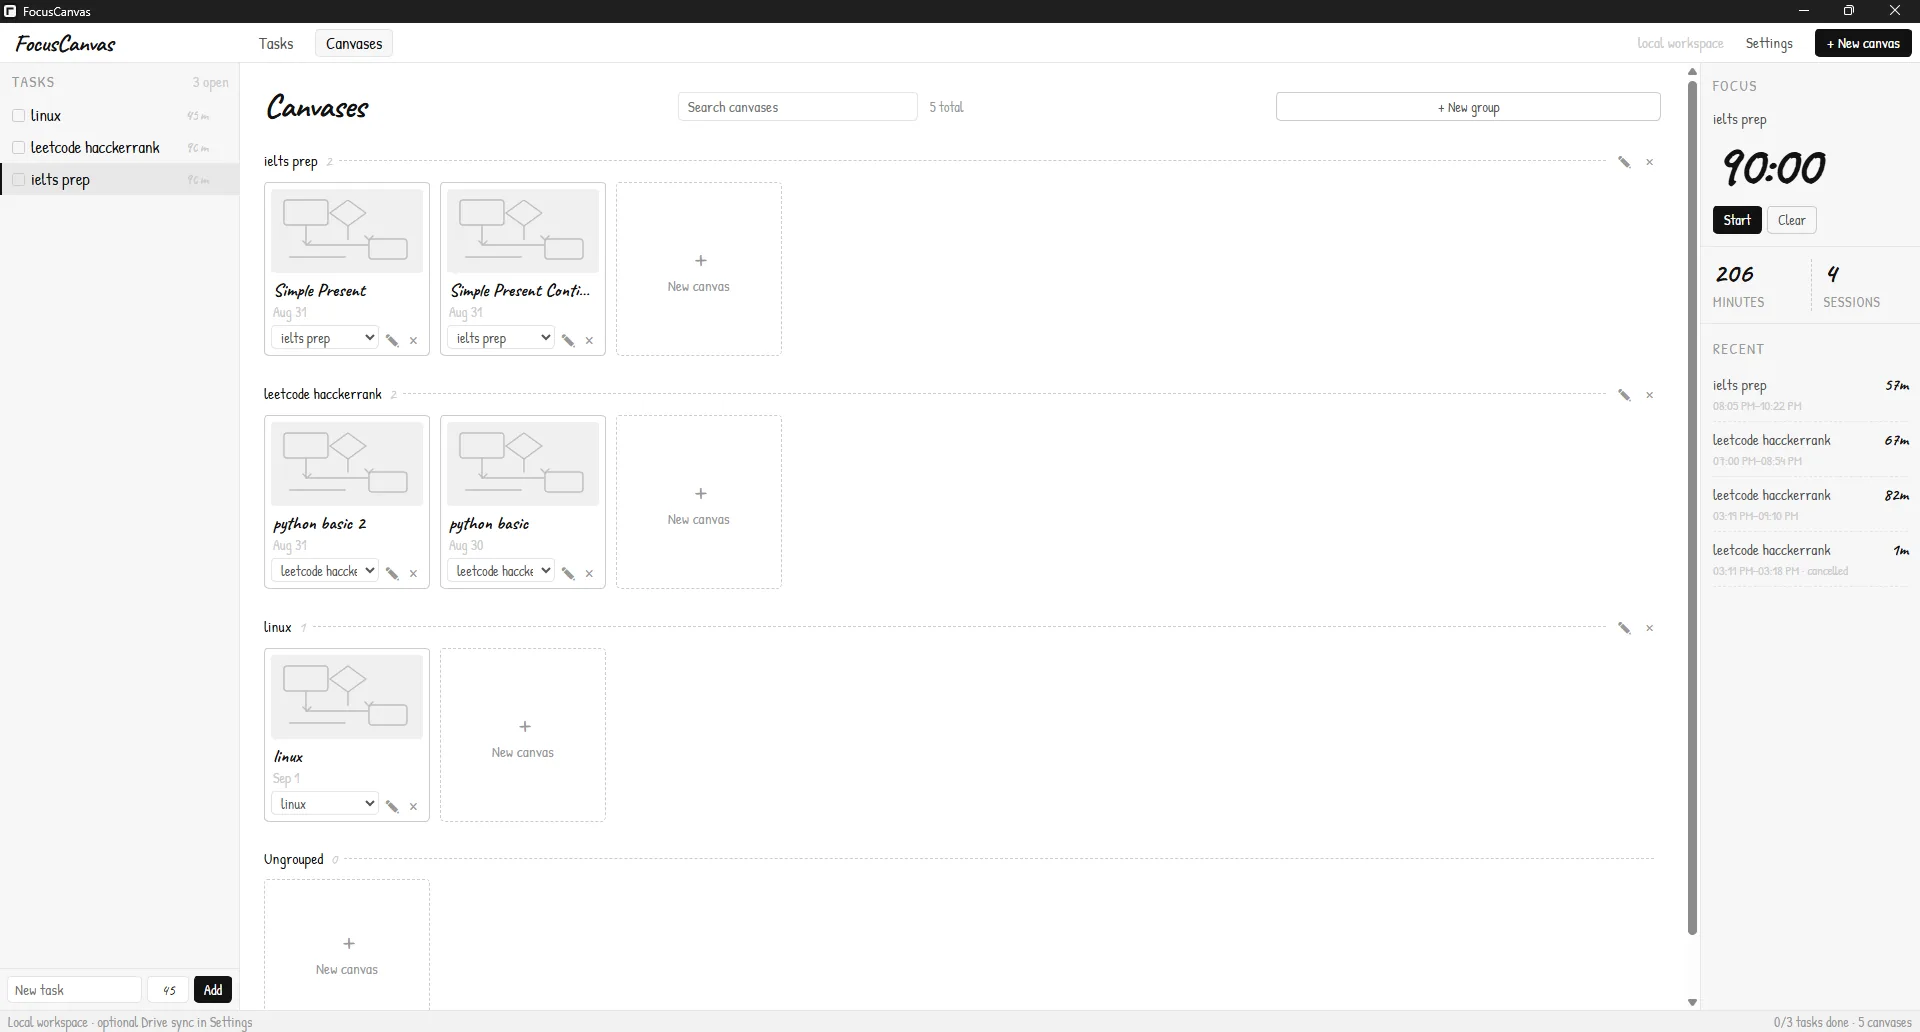
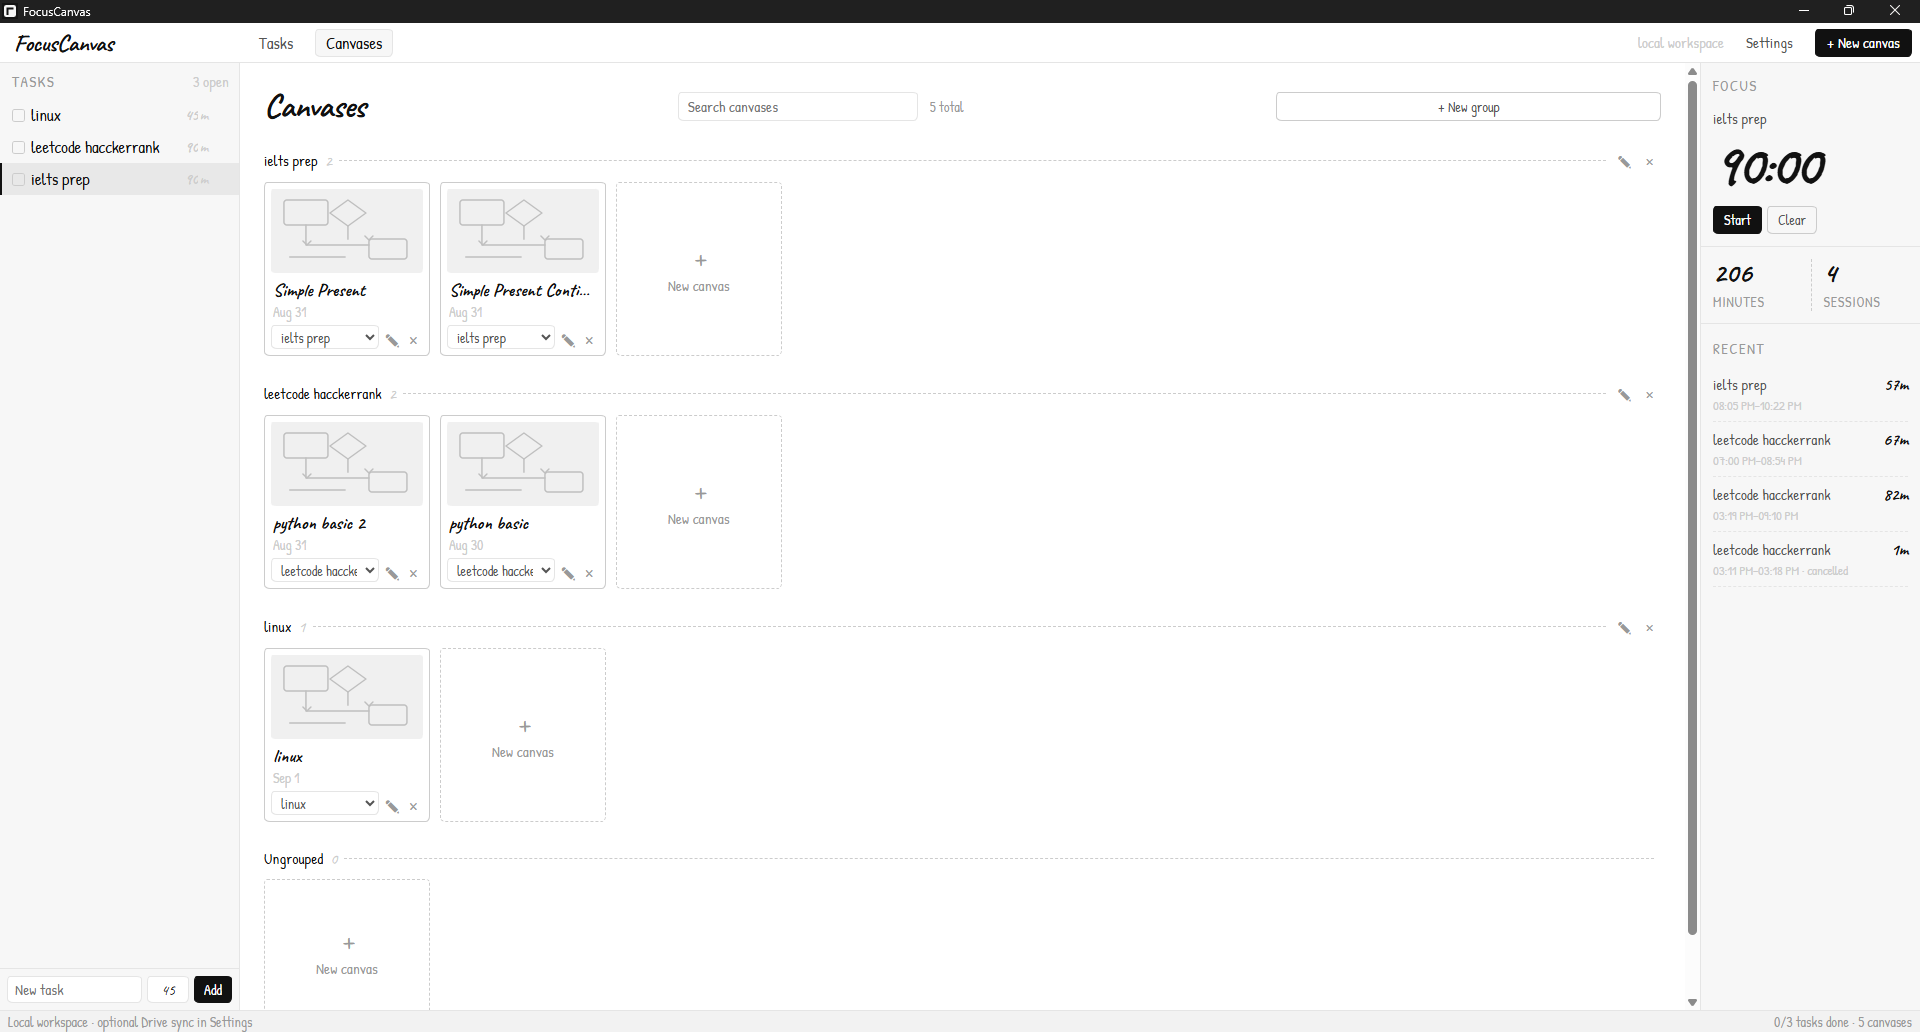
fix: sharpen public showcase images and header type
Improve header readability and preserve sharpness in public showcase screenshots.

diff --git a/site/styles.css b/site/styles.css
@@ -32,7 +32,7 @@ img { display: block; max-width: 100%; }
   z-index: 50;
   top: 0;
   display: grid;
-  min-height: 44px;
+  min-height: 50px;
   grid-template-columns: 1fr auto 1fr;
   align-items: center;
   padding: 0 14px;
@@ -40,6 +40,7 @@ img { display: block; max-width: 100%; }
   background: rgb(255 255 255 / 0.95);
   backdrop-filter: blur(12px);
 }
+.topbar .brand { font-size: 23px; }
 .brand {
   font-family: "Caveat", cursive;
   font-size: 19px;
@@ -47,11 +48,11 @@ img { display: block; max-width: 100%; }
   letter-spacing: -.03em;
 }
 .topnav { display: flex; gap: 4px; align-items: center; }
-.topnav a { padding: 6px 10px; border: 1px solid transparent; border-radius: var(--sketch-radius); color: var(--text); font-size: 14px; }
+.topnav a { padding: 7px 12px; border: 1px solid transparent; border-radius: var(--sketch-radius); color: var(--ink); font-size: 16px; }
 .topnav a:hover, .topnav a.is-active { border-color: var(--border); background: var(--panel); color: var(--ink); }
 .top-actions { display: flex; justify-content: flex-end; align-items: center; gap: 10px; }
-.top-actions .button { font-size: 13px; }
-.top-actions .text-link { font-size: 14px; }
+.top-actions .button { font-size: 14px; }
+.top-actions .text-link { color: var(--ink); font-size: 15px; }
 .text-link { color: var(--text); font-size: 12px; }
 .text-link:hover { color: var(--ink); }
 
@@ -75,7 +76,7 @@ img { display: block; max-width: 100%; }
 
 .hero {
   display: grid;
-  min-height: calc(100vh - 44px);
+  min-height: calc(100vh - 50px);
   grid-template-columns: minmax(0, .8fr) minmax(520px, 1.2fr);
   align-items: center;
   gap: 54px;
